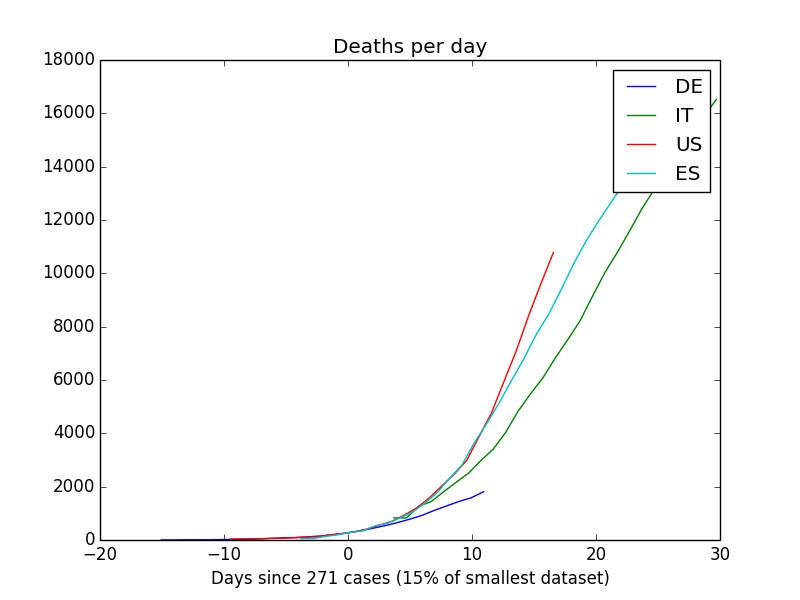
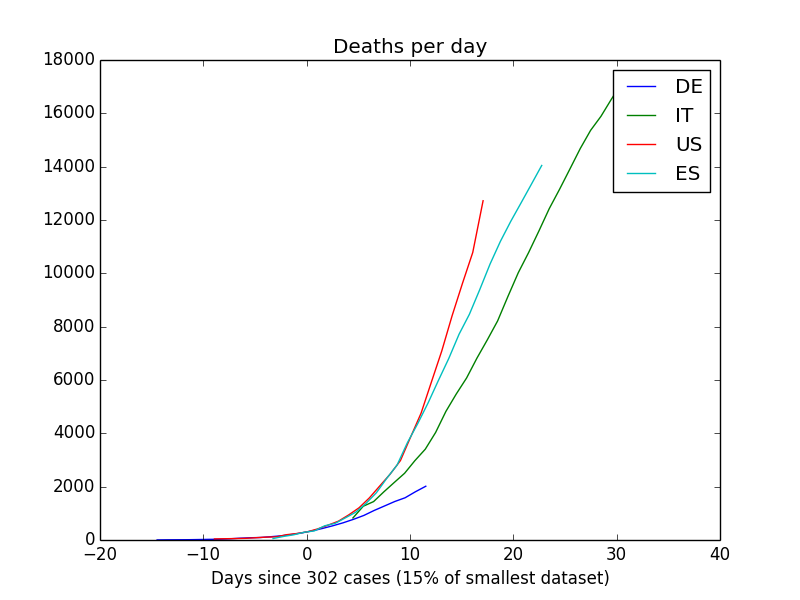
Update plots with data from April, 7th

diff --git a/README.md b/README.md
@@ -2,7 +2,7 @@
 
 Data is taken from the [2019 Novel Coronavirus COVID-19 Data Repository by Johns Hopkins CSSE](https://github.com/CSSEGISandData/COVID-19)
 
-### Last update: 06.04.2020
+### Last update: 07.04.2020
 
 ### Cases
 
